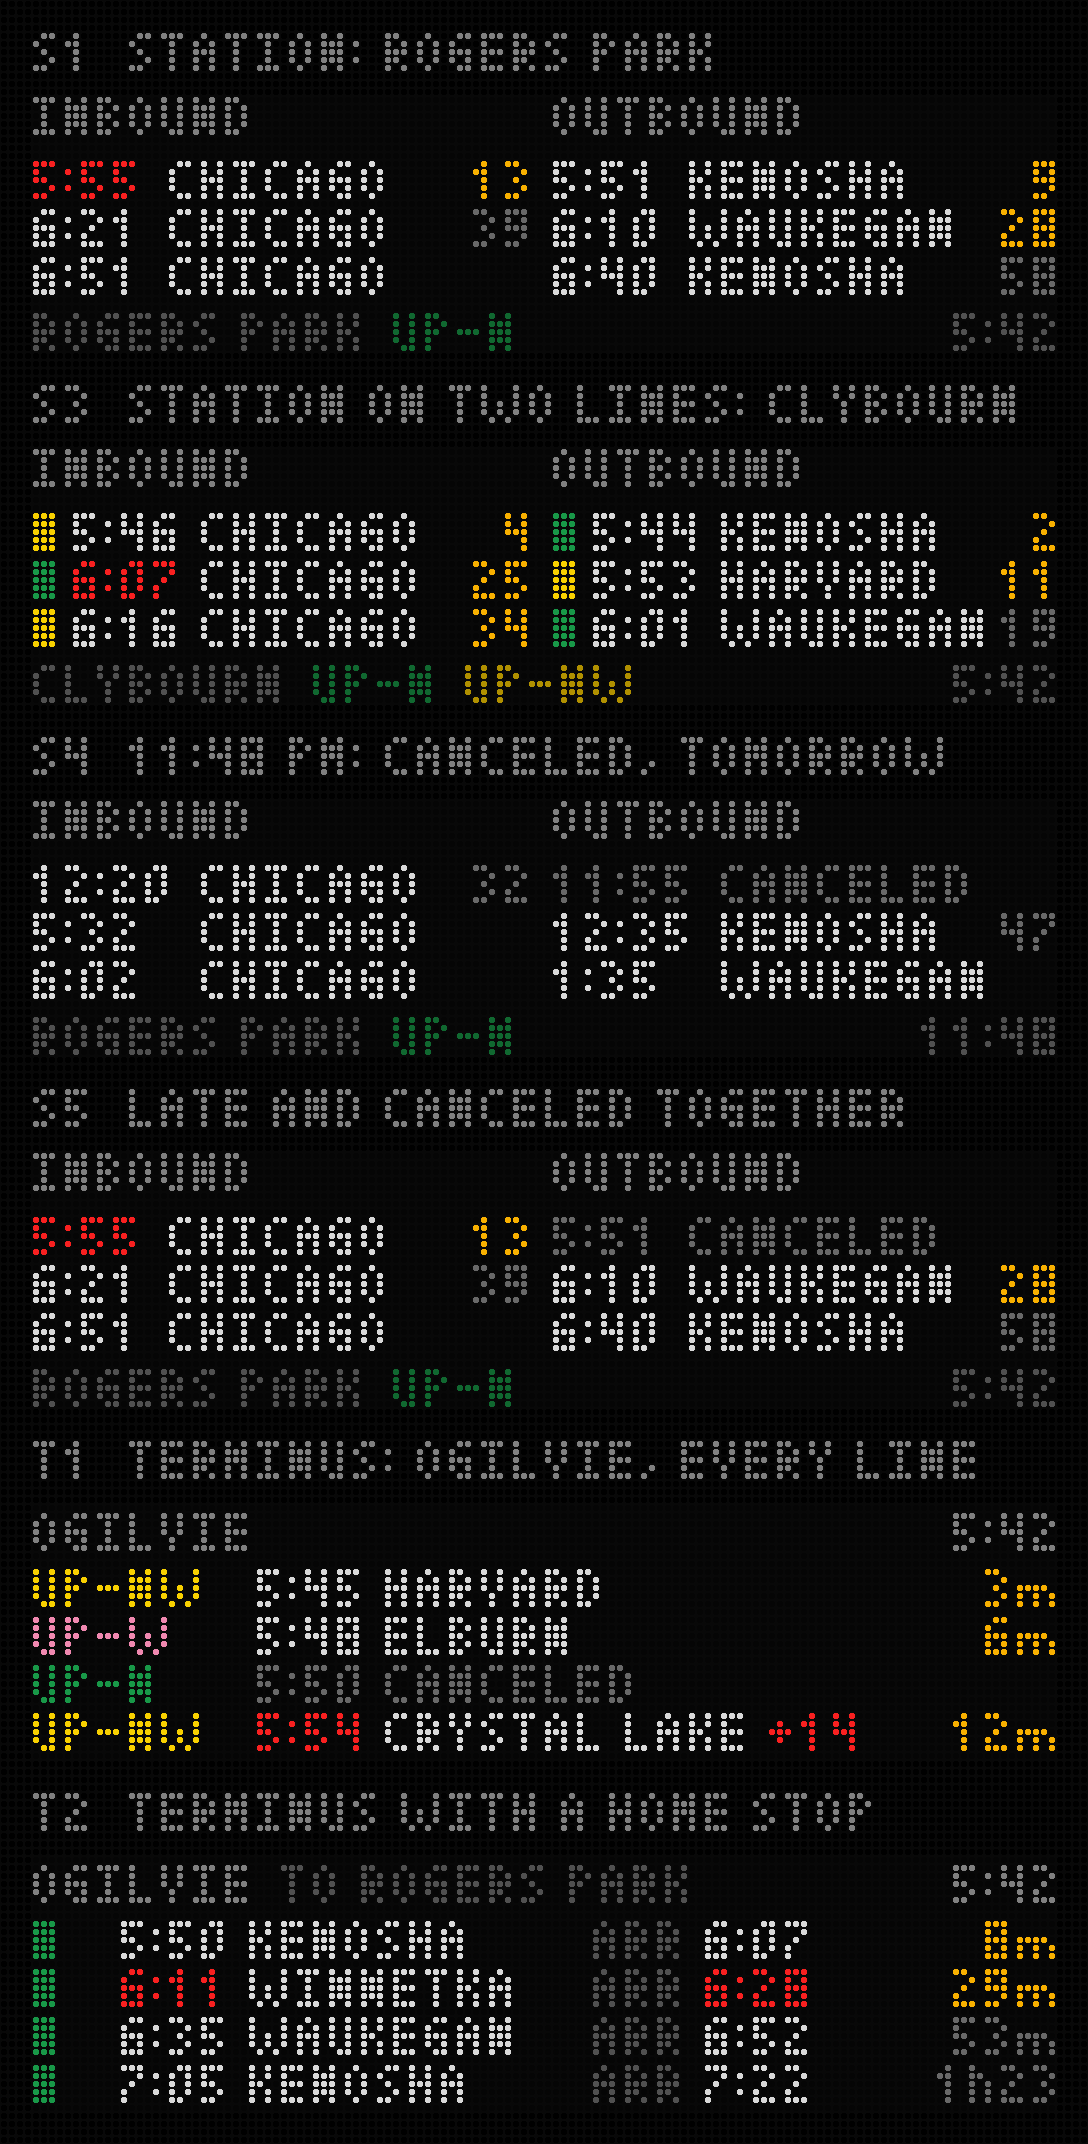
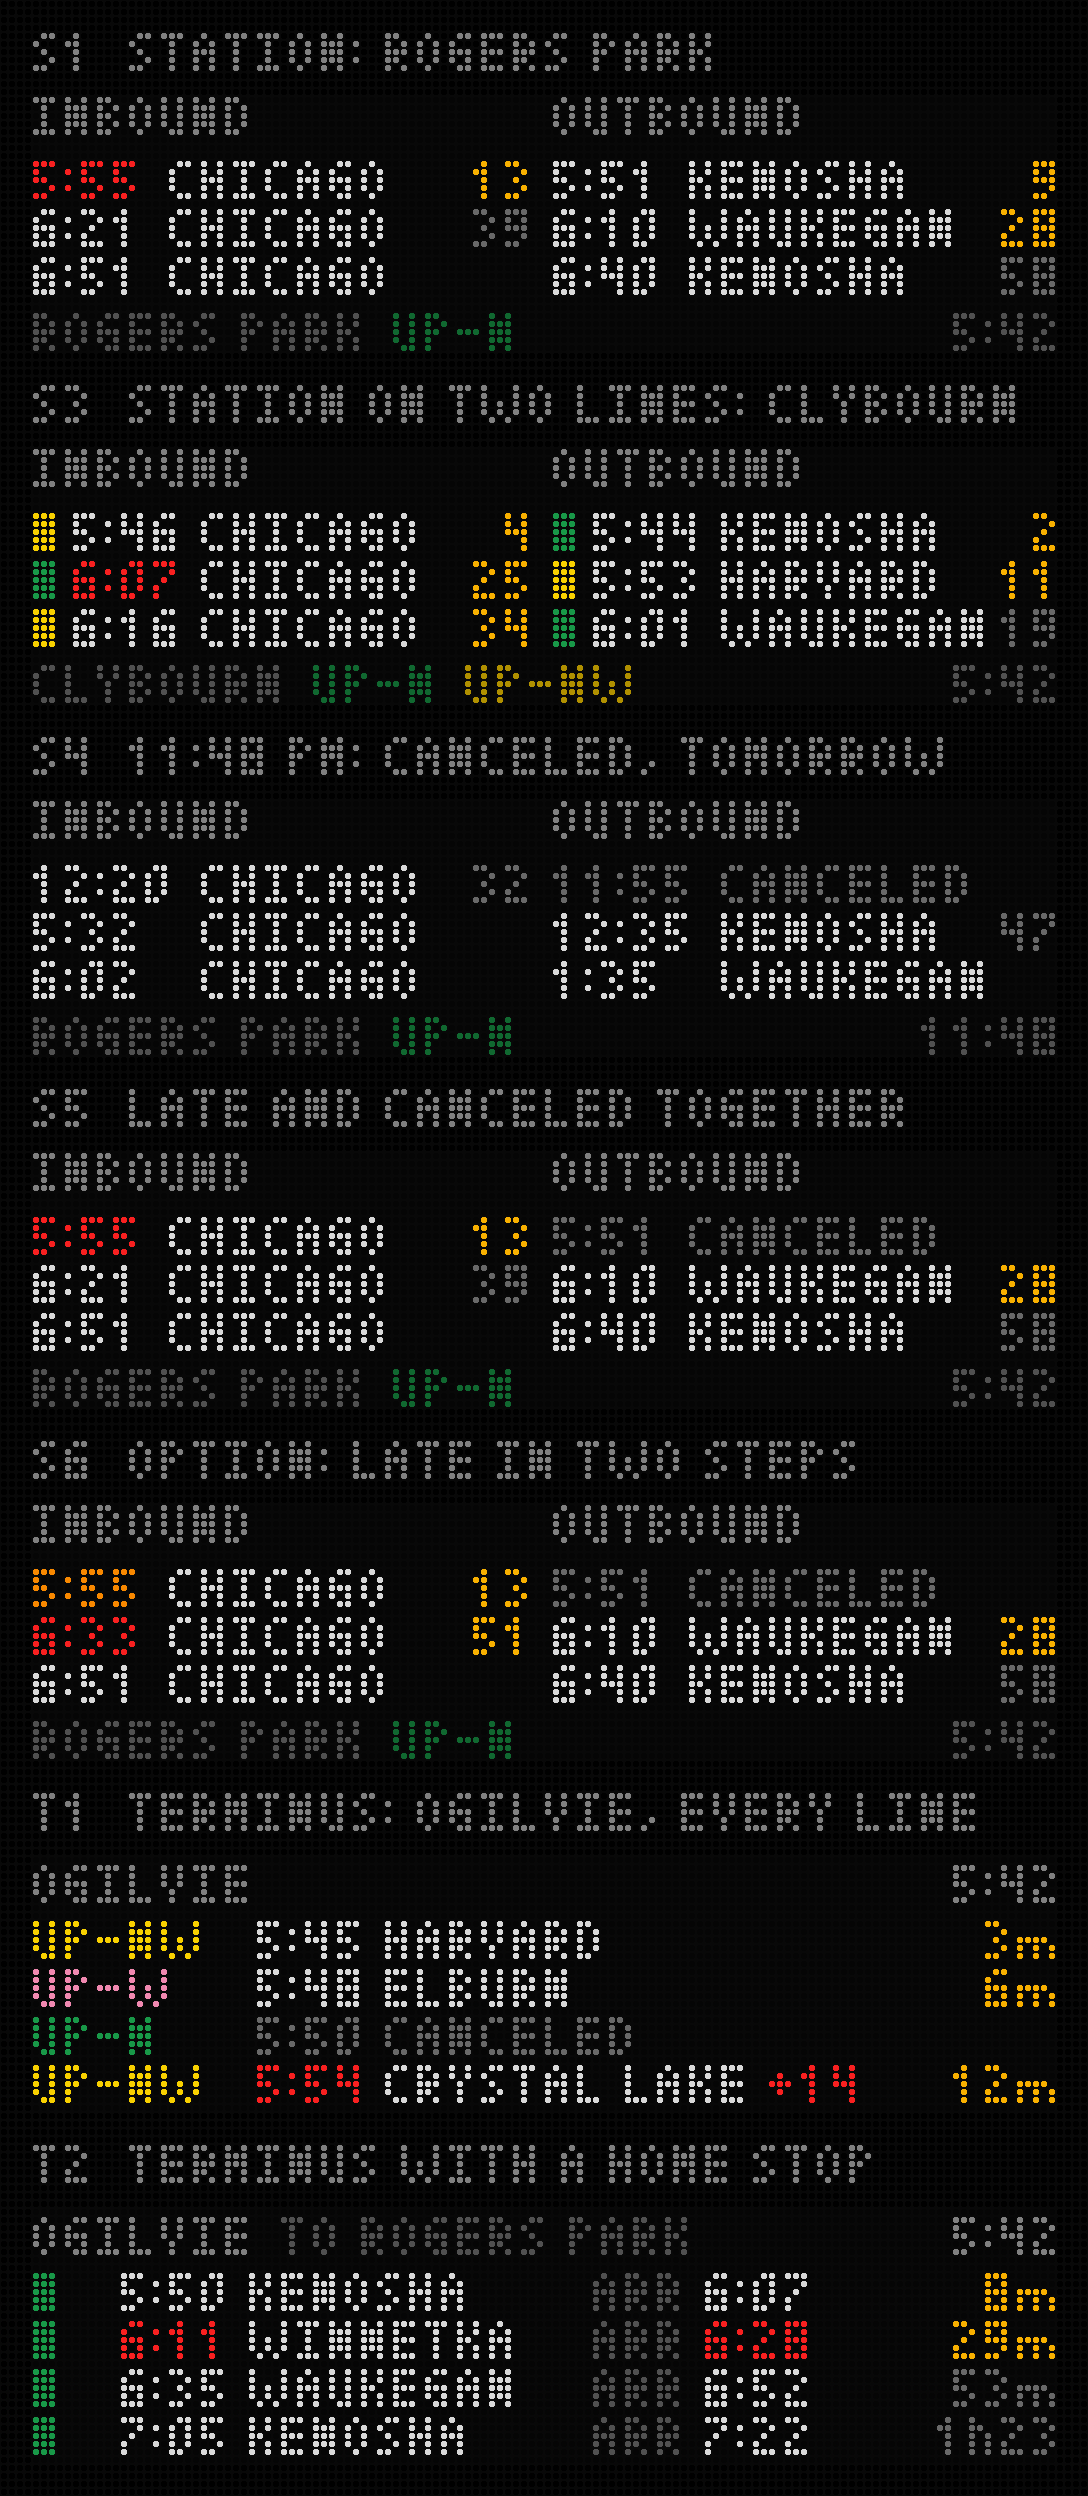
Metra mockups: S6, late in two steps (an option)
Orange under 15 minutes late, red from 15, beside a canceled and an
untracked train. Not chosen.

Claude-Session: https://claude.ai/code/session_01G1nRWyg4CbszNM2FgHZxca

diff --git a/scripts/mock-metra-128.js b/scripts/mock-metra-128.js
@@ -188,15 +188,17 @@ const MOCKS = [
 //  - No countdown past 59 minutes in a half (1h23 on full-width rows), so
 //    tomorrow's first trains need no special overnight screen.
 const cd2 = (r) => (r.live ? C.amber : C.sched);
-const lateCol = () => C.late;
+// opts.sev (S6, an option): two steps of late, orange under 15 minutes and red from 15.
+const ORANGE = '#ff8c00';
+const lateCol = (r, sev) => (sev && r.late < 15 ? ORANGE : C.late);
 const cancelCol = () => C.sched;
-const t2col = (r) => (r.cancel ? cancelCol() : r.late ? lateCol() : C.label);
+const t2col = (r, sev) => (r.cancel ? cancelCol() : r.late ? lateCol(r, sev) : C.label);
 const R = (ln, at, to, min, extra = {}) => ({ ln, at, to, min, ...extra });
 const hm = (min) => (min >= 60 ? `${Math.floor(min / 60)}h${String(min % 60).padStart(2, '0')}` : `${min}m`);
 
 // Station: inbound | outbound, one train per row. opts.blocks for a station on
 // more than one line.
-function station(name, lines, sides, { blocks = false, clock = '5:42' } = {}) {
+function station(name, lines, sides, { blocks = false, sev = false, clock = '5:42' } = {}) {
   const f = new Frame(W, H);
   sides.forEach(({ label, rows }, s) => {
     const [x0, x1] = HALVES[s];
@@ -206,7 +208,7 @@ function station(name, lines, sides, { blocks = false, clock = '5:42' } = {}) {
     rows.slice(0, 3).forEach((r, i) => {
       const top = 8 + i * 6, base = top + 5;
       if (blocks) f.fill(x0, top, 3, 5, LINE[r.ln]);
-      f.text('small', r.at, tx, base, t2col(r));
+      f.text('small', r.at, tx, base, t2col(r, sev));
       if (r.cancel) return void f.text('small', 'CANCELED', nx, base, cancelCol());
       f.text('small', r.to, nx, base, C.label);
       if (r.min < 60) rtext(f, 'small', String(r.min), x1, base, cd2(r));
@@ -233,8 +235,8 @@ function terminus(name, rows, { home, clock = '5:42' } = {}) {
     else { f.text('small', NAME[r.ln], 0, base, LINE[r.ln]); rtext(f, 'small', r.at, 40, base, t2col(r)); nx = 44; }
     if (r.cancel) return void f.text('small', 'CANCELED', nx, base, cancelCol());
     const end = f.text('small', r.to, nx, base, C.label);
-    if (home) { const x = f.text('small', 'ARR', 70, base, C.dark); f.text('small', r.arr, x + 2, base, r.late ? lateCol() : C.label); }
-    else if (r.late) f.text('small', `+${r.late}`, end + 2, base, lateCol());
+    if (home) { const x = f.text('small', 'ARR', 70, base, C.dark); f.text('small', r.arr, x + 2, base, r.late ? lateCol(r) : C.label); }
+    else if (r.late) f.text('small', `+${r.late}`, end + 2, base, lateCol(r));
     rtext(f, 'small', hm(r.min), W - 1, base, cd2(r));
   });
   return f;
@@ -255,6 +257,7 @@ const OTC_HOME = [
   R('UPN', '5:50', 'KENOSHA', 8, { live: true, arr: '6:07' }), R('UPN', '6:11', 'WINNETKA', 29, { late: 6, live: true, arr: '6:28' }),
   R('UPN', '6:35', 'WAUKEGAN', 53, { arr: '6:52' }), R('UPN', '7:05', 'KENOSHA', 83, { arr: '7:22' }),
 ];
+const SEV_IN = [R('UPN', '5:55', 'CHICAGO', 13, { late: 8, live: true }), R('UPN', '6:33', 'CHICAGO', 51, { late: 22, live: true }), R('UPN', '6:51', 'CHICAGO', 69)];
 const BOTH = (i, o) => [{ label: 'INBOUND', rows: i }, { label: 'OUTBOUND', rows: o }];
 
 const ROUND2 = [
@@ -262,6 +265,7 @@ const ROUND2 = [
   ['r2-station-lines', 'S3  Station on two lines: Clybourn', station('CLYBOURN', ['UPN', 'UPNW'], BOTH(CLY_IN, CLY_OUT), { blocks: true })],
   ['r2-station-night', 'S4  11:48 PM: canceled, tomorrow', station('ROGERS PARK', ['UPN'], BOTH(NIGHT_IN, NIGHT_OUT), { clock: '11:48' })],
   ['r2-station-states', 'S5  Late and canceled together', station('ROGERS PARK', ['UPN'], BOTH(RP_IN, RP_OUT_X))],
+  ['r2-station-severity', 'S6  Option: late in two steps', station('ROGERS PARK', ['UPN'], BOTH(SEV_IN, RP_OUT_X), { sev: true })],
   ['r2-terminus', 'T1  Terminus: Ogilvie, every line', terminus('OGILVIE', OTC2)],
   ['r2-terminus-home', 'T2  Terminus with a home stop', terminus('OGILVIE', OTC_HOME, { home: 'ROGERS PARK' })],
 ];
